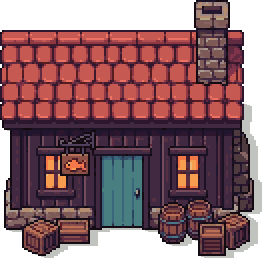
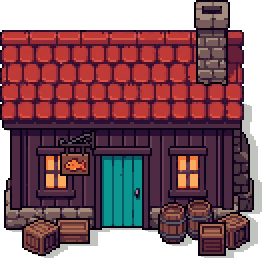
clean_ai: PALETTE=own keeps the image's own colours; Gemini shop re-cleaned with it
Claude-Session: https://claude.ai/code/session_01UfpJh2yGrDMaNfv5mQuco1

diff --git a/tools/pixel-art/clean_ai.py b/tools/pixel-art/clean_ai.py
@@ -10,6 +10,7 @@
 Kullanım: python3 clean_ai.py girdi.png cikti.png <zemin_kesme_y> <küçültme> [palet.json]
   örn: python3 clean_ai.py ai-src/balikci_2.png ../../client/Assets/Art/Custom/Buildings/balikci_ai_2.png 9999 2.0
   küçültme: 768 px'lik görseli kaç kat küçülteceğin (2.0 -> ~384 px).
+  PALETTE=own: ortak palet yerine görselin kendi renkleri (NCOL kadar, gürültü toplanır).
   Görselin gerçek bir ızgarası varsa (Gemini ~4.26 px) küçültme = ızgara, UP=2 ile 2 kat keskin büyüt.
 """
 import json, os, sys
@@ -45,8 +46,16 @@ def main(src, out, cut_y, scale, pal_path):
     ys, xs = np.where(alpha); y0, y1, x0, x1 = ys.min(), ys.max() + 1, xs.min(), xs.max() + 1
     rgb, alpha = rgb[y0:y1, x0:x1], alpha[y0:y1, x0:x1]
 
-    # palete eşle (Lab, en yakın)
     lab = srgb_to_lab(rgb.reshape(-1, 3))
+    if os.environ.get('PALETTE') == 'own':
+        # görselin KENDİ renkleri: sadece sıkıştırma gürültüsünü topla (k-means), renk tonu değişmez
+        from cozy_palette import kmeans
+        a_lab = lab[alpha.reshape(-1)]
+        c, lbl = kmeans(a_lab[::5].copy(), int(os.environ.get('NCOL', '40')))
+        sub = rgb.reshape(-1, 3)[alpha.reshape(-1)][::5]
+        pal = np.array([sub[lbl == j].mean(0) if (lbl == j).any() else (0, 0, 0) for j in range(len(c))]).round()
+        pal_lab = srgb_to_lab(pal)
+    # palete eşle (Lab, en yakın)
     idx = np.empty(len(lab), int)
     for s in range(0, len(lab), 65536):
         d = ((lab[s:s + 65536, None, :] - pal_lab[None]) ** 2).sum(-1); idx[s:s + 65536] = d.argmin(1)
